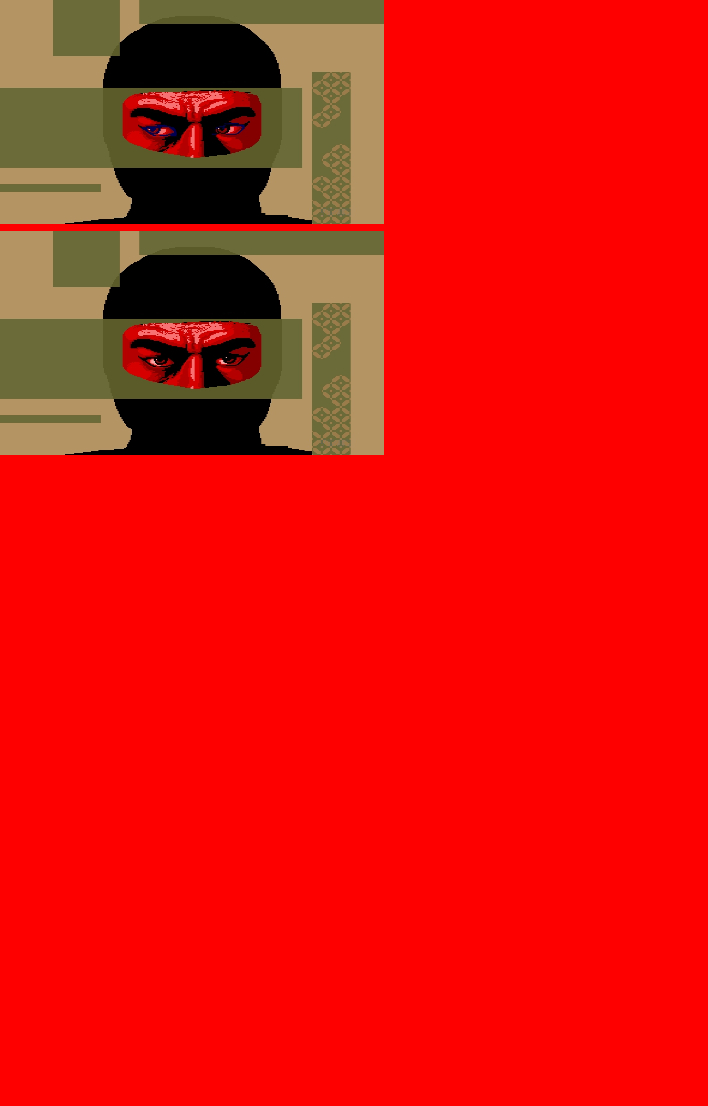
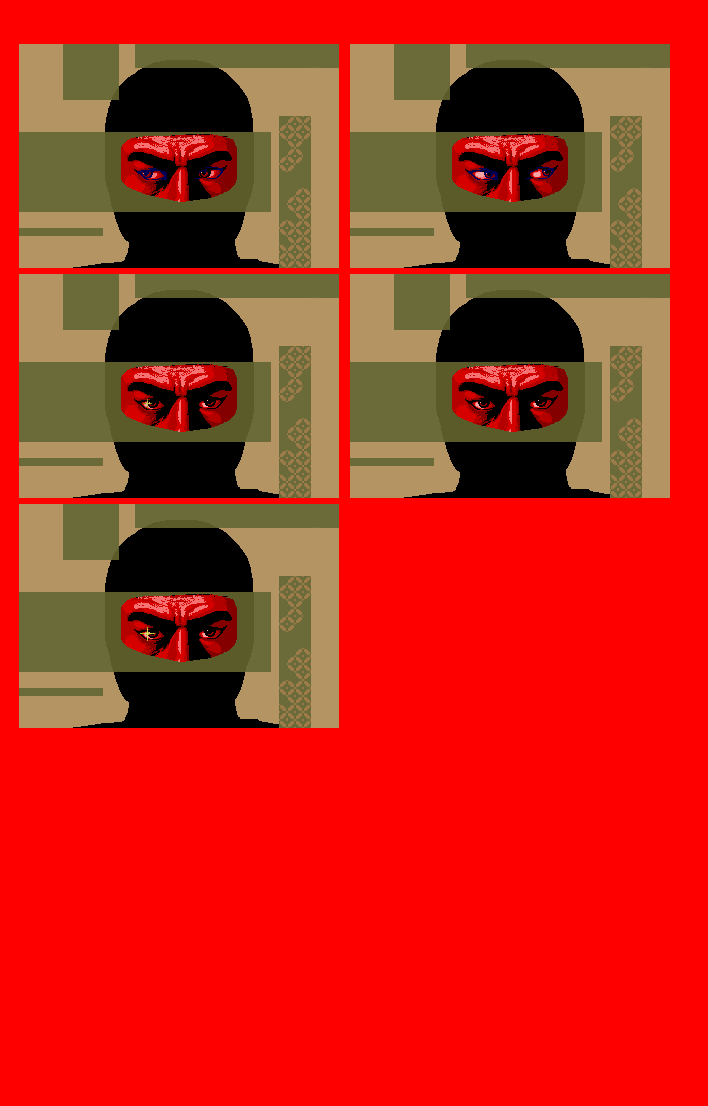
GMR_Fondo

diff --git a/Shinobi - NoFurryGames/Shinobi/ModuleScene_MainMenu.cpp b/Shinobi - NoFurryGames/Shinobi/ModuleScene_MainMenu.cpp
@@ -20,8 +20,14 @@
 
 ModuleScene_MainMenu::ModuleScene_MainMenu(bool startEnabled) : Module(startEnabled)
 {
-	eyesAnimation.PushBack({0, 0, SCREEN_WIDTH, SCREEN_HEIGHT });
-	eyesAnimation.PushBack({0, 231, SCREEN_WIDTH, SCREEN_HEIGHT });
+	eyesAnimation.PushBack({ 350, 274, SCREEN_WIDTH, SCREEN_HEIGHT }); //Centro
+	eyesAnimation.PushBack({ 19, 44, SCREEN_WIDTH, SCREEN_HEIGHT }); //izquierda
+	eyesAnimation.PushBack({ 350, 274, SCREEN_WIDTH, SCREEN_HEIGHT }); //Centro
+	eyesAnimation.PushBack({ 350, 44, SCREEN_WIDTH, SCREEN_HEIGHT }); //derecha
+	eyesAnimation.PushBack({ 350, 274, SCREEN_WIDTH, SCREEN_HEIGHT }); //Centro
+	eyesAnimation.PushBack({ 19, 504, SCREEN_WIDTH, SCREEN_HEIGHT }); //Brilli
+	eyesAnimation.PushBack({19, 274, SCREEN_WIDTH, SCREEN_HEIGHT }); //Brilli2
+	
 	eyesAnimation.loop = true;
 	eyesAnimation.speed = 0.04f;
 	background = { 200,200, SCREEN_WIDTH, SCREEN_HEIGHT };
